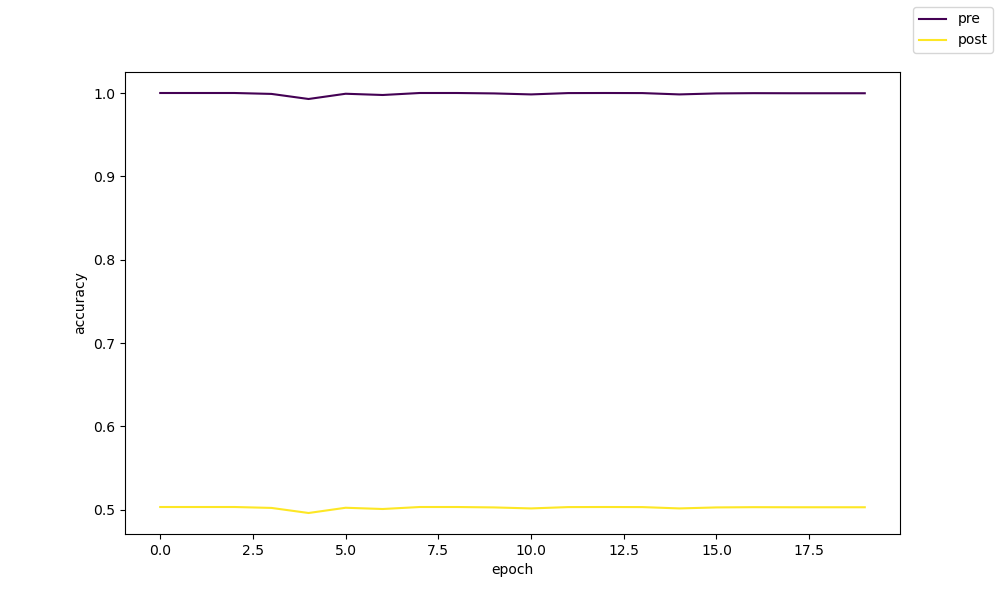
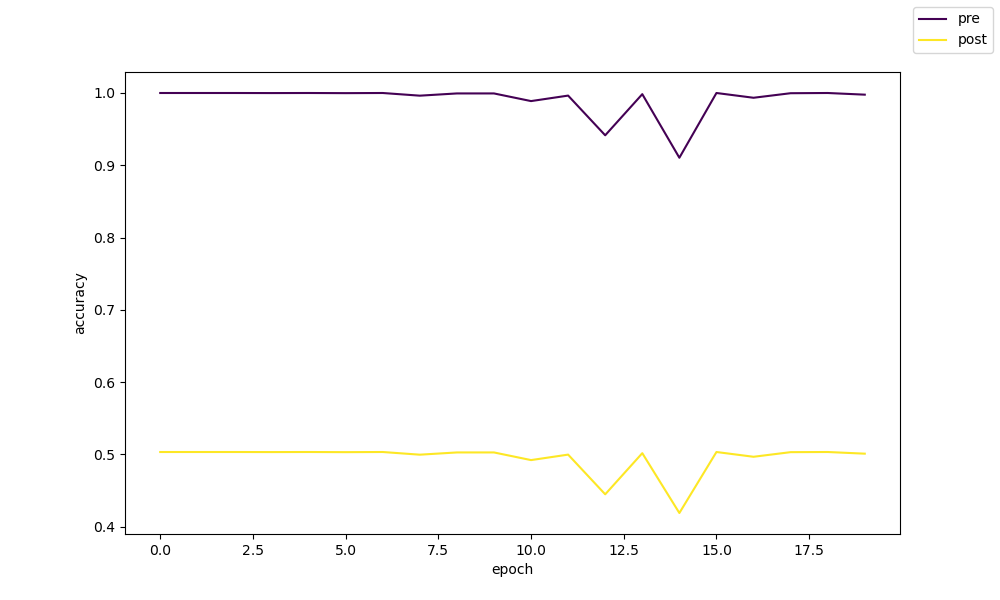
KZ-137: changed discrimator optimizer to SGD

diff --git a/ml/examples/gan_mnist/models.py b/ml/examples/gan_mnist/models.py
@@ -32,7 +32,7 @@ class Discriminator(Model):
         return self.layers(x)
 
     def compile(self, loss_fn):
-        self.optimizer = torch.optim.Adam(self.parameters(), lr=1e-4)
+        self.optimizer = torch.optim.SGD(self.parameters(), lr=1e-2)
         self.loss_fn = loss_fn
         self.is_compiled = True
 
